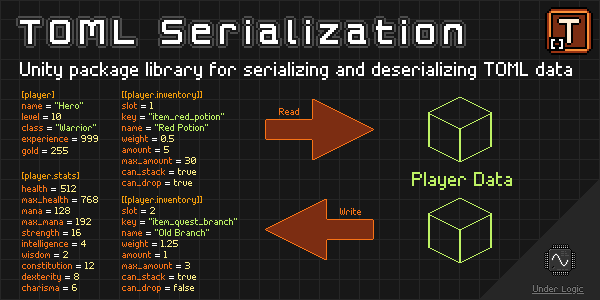
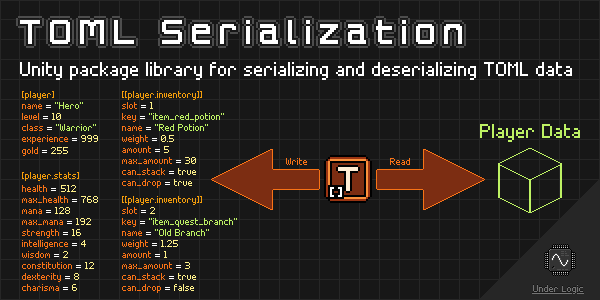
fix: update cover image

diff --git a/CHANGELOG.md b/CHANGELOG.md
@@ -6,6 +6,13 @@ and this project adheres to [Semantic Versioning](https://semver.org/spec/v2.0.0
 
 ## [0.3.5] - Unreleased
 
+### Added
+
+
+
+### Changed
+
+- Updated icons for `TomlImporter` and `TomlExporter` components
 
 ## [0.3.4] - 2022-12-28
 
